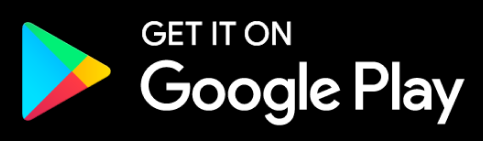
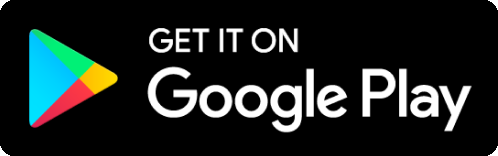
Update store button images and adjust button height

diff --git a/new/index.html b/new/index.html
@@ -38,9 +38,9 @@
 
             <div class="store-buttons">
                 <!-- Trois images en rangée : Soon, Play Store, App Store -->
-                <img src="assets/images/soon.png" alt="Soon" class="store-btn">
-                <!--<img src="assets/images/soon.png" alt="Play Store" class="store-btn">
-                <img src="assets/images/soon.png" alt="App Store" class="store-btn">-->
+                <!-- <img src="assets/images/soon.png" alt="Soon" class="store-btn"> -->
+                <img src="assets/images/play-store.png" alt="Play Store" class="store-btn">
+                <img src="assets/images/app-store.png" alt="App Store" class="store-btn">
             </div>
         </div>
 

diff --git a/new/assets/style.css b/new/assets/style.css
@@ -117,7 +117,7 @@ img {
 
     .store-btn {
         width: 200px;
-        height: 55px;
+        height: 63px;
         cursor: pointer;
         transition: transform 0.2s ease;
     }
